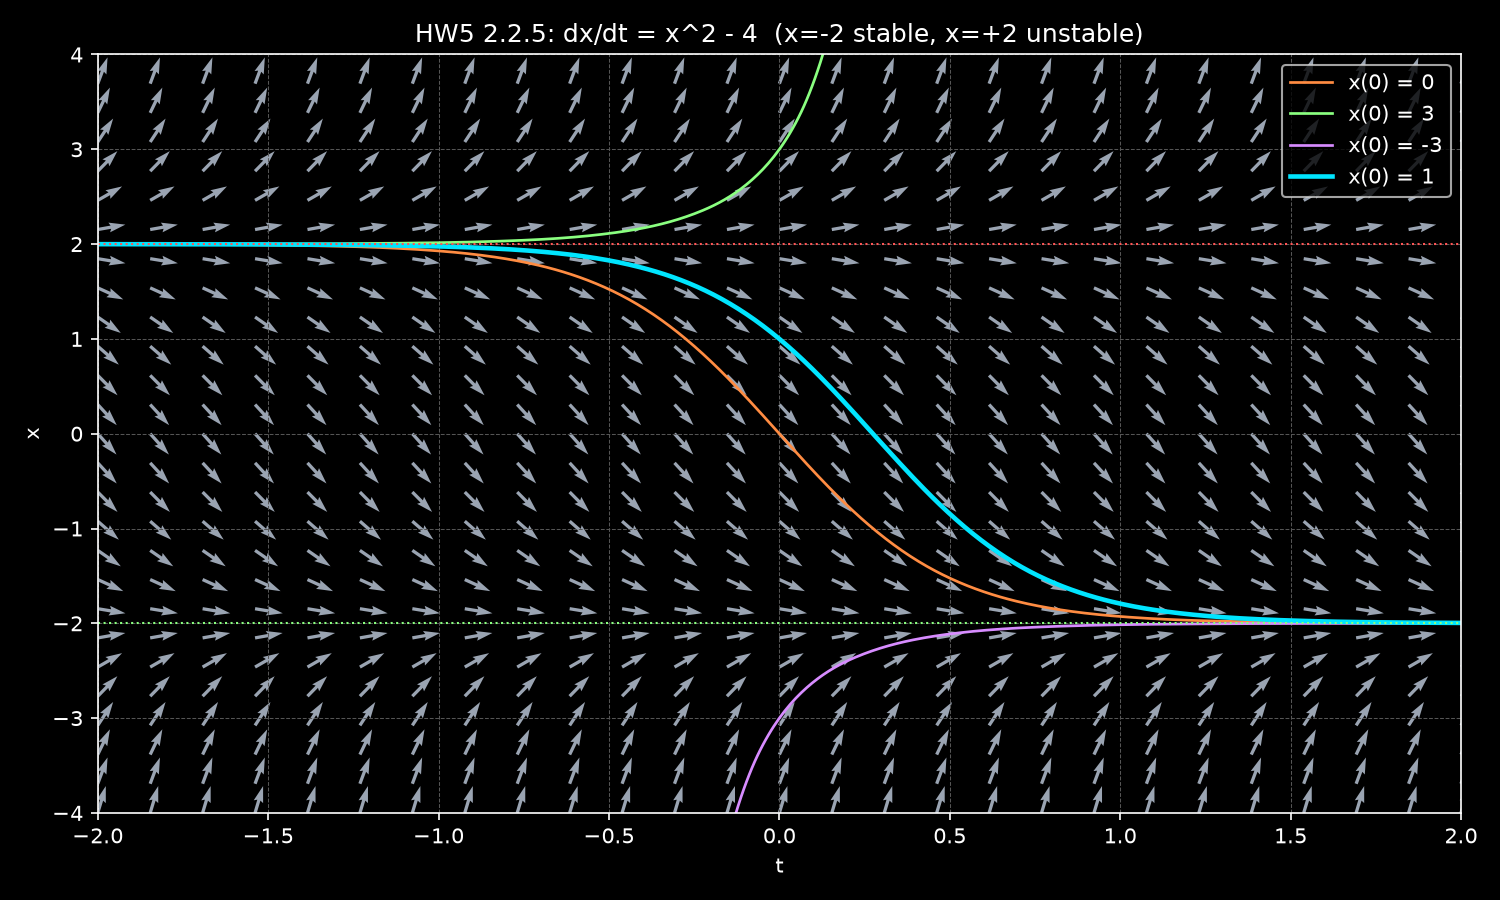
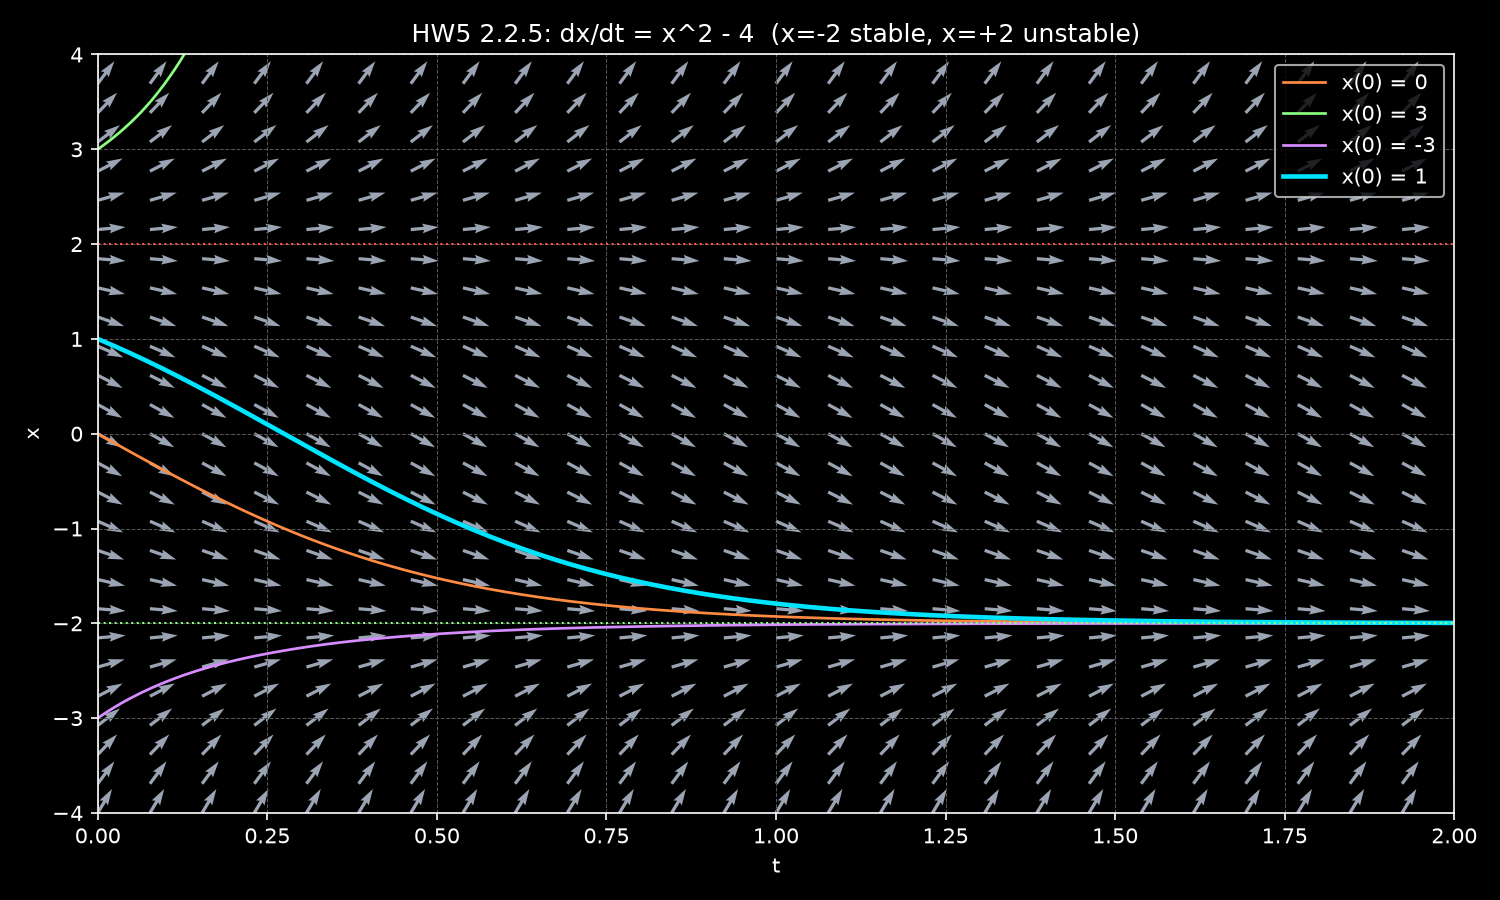
Start 2.2.5 plot at t=0 instead of negative time
Claude-Session: https://claude.ai/code/session_01PjyKn7SaLkzGXREwXYpipu

diff --git a/homework5.py b/homework5.py
@@ -41,7 +41,7 @@ def make_2_2_5():
     def f(t, x):
         return x**2 - 4
 
-    t_span = (-2, 2)
+    t_span = (0, 2)
     plt.figure(figsize=(10, 6))
     slope_field(f, x_range=t_span, y_range=(-4, 4), density=27)
     plot_extra_solutions(f, t_span, [(0, 0), (0, 3), (0, -3)])
